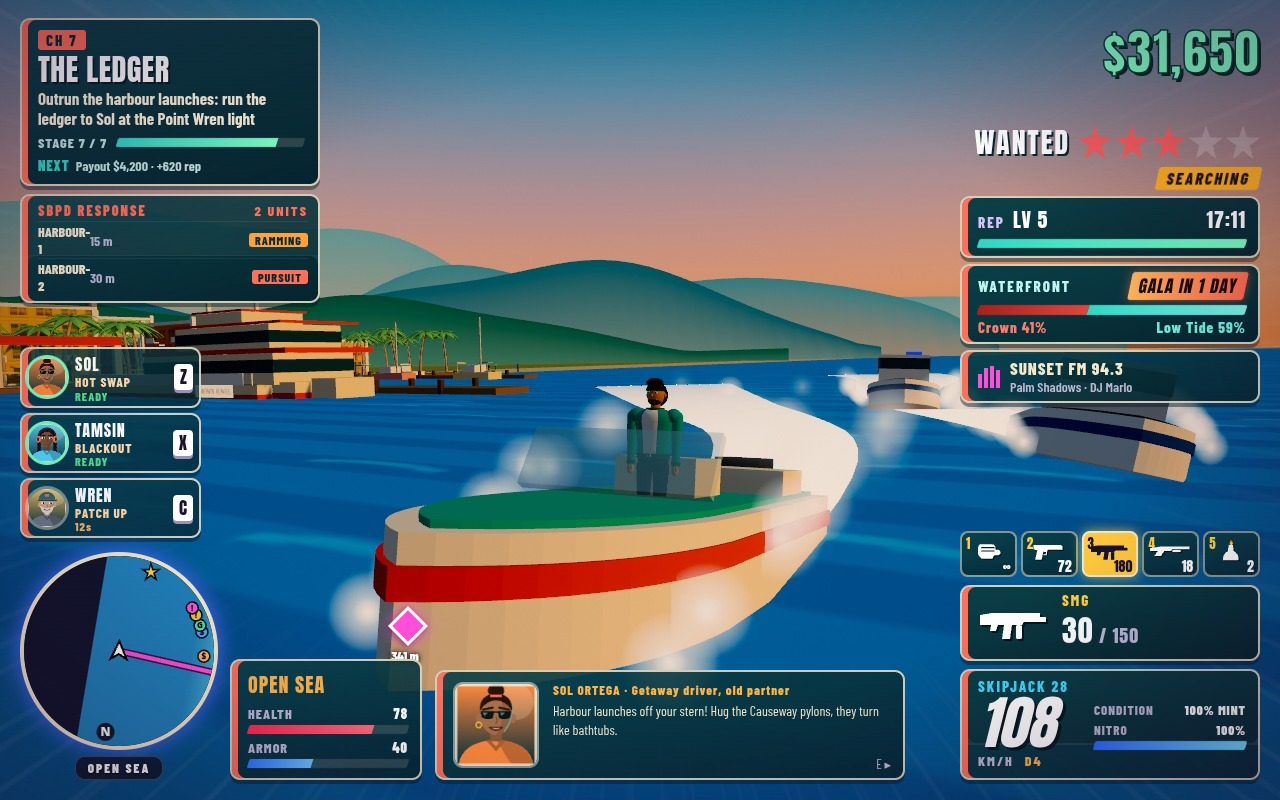
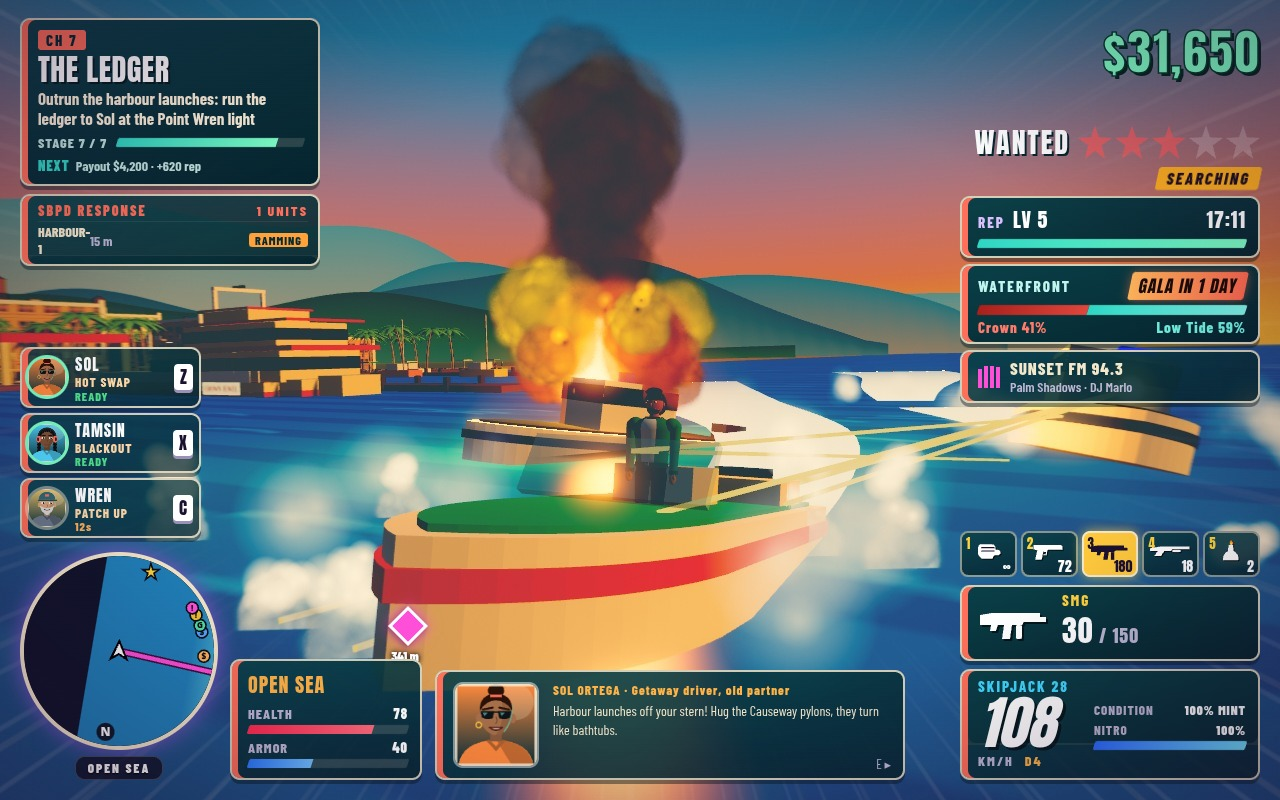
Gunfights on the water: harbour launch bow gunners fire bursts with tracers and bullet splashes, Nico returns fire over the stern with the gun in hand, enough hits sink a launch in a fireball; white water splash effect, warmer explosion smoke; shot 2 restaged with a launch going up behind the bankin

diff --git a/game/src/shots/screenshotScenes.js b/game/src/shots/screenshotScenes.js
@@ -13,7 +13,7 @@ import { setStars } from '../police/wantedSystem.js';
 import { MISSIONS, corner } from '../missions/storyMissions.js';
 import { refreshStartMarker } from '../missions/missionRunner.js';
 import { dlg, say } from '../story/dialogue.js';
-import { muzzleFlash, tracer, sparks, smoke, particle, updateSirens, floatText, layoutFloaters, skidMark, updateEffects, explosion, fire } from '../combat/effects.js';
+import { muzzleFlash, tracer, sparks, smoke, particle, splash, updateSirens, floatText, layoutFloaters, skidMark, updateEffects, explosion, fire } from '../combat/effects.js';
 import { rig } from '../camera/cameraRig.js';
 import { removeCar } from '../vehicles/carPhysics.js';
 import { removeActor } from '../characters/pedestrianSystem.js';
@@ -24,7 +24,8 @@ import { createSpikeStrip } from '../police/spikeStrip.js';
 import { updateLineOfSight } from '../police/lineOfSight.js';
 import { popup } from '../vehicles/driftScoring.js';
 import { stageMoto } from '../vehicles/motoTaxis.js';
-import { createBoat, enterBoat, updateBoats } from '../vehicles/boats.js';
+import { createBoat, enterBoat, updateBoats, sinkBoat } from '../vehicles/boats.js';
+import { boatShot } from '../combat/boatGunfight.js';
 import { mooredSpeedboat } from '../missions/ledgerHeist.js';
 import { DROP, MARINA_GATE, YACHT } from '../world/marina.js';
 
@@ -101,13 +102,19 @@ function boatRun(api) {
   const fwd = () => [Math.sin(b.heading), Math.cos(b.heading), Math.cos(b.heading), -Math.sin(b.heading)], c = S.cam;
   { const l = launches[0], [fx, fz, rx, rz] = fwd(), [bk, sd] = S.lead; l.x = b.x - fx * bk + rx * sd; l.z = b.z - fz * bk + rz * sd; l.heading = b.heading + 0.15; l.vx = Math.sin(l.heading) * 29; l.vz = Math.cos(l.heading) * 29; l.trail = []; }
   b.input.steer = 0; b.input.hand = 0; for (let i = 0; i < S.settle; i++) { G.time += 1 / 60; updateBoats(1 / 60); updateEffects(1 / 60); } p.x = b.x; p.z = b.z;
+  // the gunfight (combat/boatGunfight.js): Nico's rounds have just holed the second launch's fuel tank and it goes up beside
+  // the wake; the lead launch's bow gunner walks a burst across the water at the Skipjack while Nico fires back over the stern
+  { const l = launches[1], [fx, fz, rx, rz] = fwd(), [bk, sd] = S.blast; l.x = b.x - fx * bk + rx * sd; l.z = b.z - fz * bk + rz * sd; l.heading = b.heading - 0.5; l.mesh.position.set(l.x, 0, l.z); l.mesh.rotation.y = l.heading; l.trail = []; sinkBoat(l); }
+  const lead = launches[0], bow = () => [lead.x + Math.sin(lead.heading) * 3.6, 1.9, lead.z + Math.cos(lead.heading) * 3.6];
+  for (let i = 0; i < 12; i++) { G.time += 1 / 60; updateEffects(1 / 60); if (i % 3 === 0) { boatShot(...bow(), b, 3.2, 0); { const a = Math.random() * 6.283, r = 4.5 + Math.random() * 4; splash(b.x + Math.cos(a) * r, b.z + Math.sin(a) * r); } } }
+  for (let k = 0; k < 2; k++) { boatShot(...bow(), b, 2.4, 0); boatShot(b.x, 1.7, b.z, lead, 2, 0); }
   // camera ahead of the bow and off to one side, looking back past the boat toward the yacht at Marina Cala
   { const [fx, fz, rx, rz] = fwd(); G.shotCam = { pos: [b.x + fx * c.f + rx * c.r, c.h, b.z + fz * c.f + rz * c.r], look: [b.x + (YACHT.x - b.x) * c.k + rx * c.lr, c.ly, b.z + (YACHT.z - b.z) * c.k + rz * c.lr], fov: c.fov, roll: c.roll }; }
   G.exposure = 1.1; if (G.post) Object.assign(G.post.params, { bloom: 0.3, threshold: 1.25, vignette: 0.3 });
   finish(api); }
 // staging numbers for the boat run (start x, z, heading, speed; steps of 1/60 s; when the hard turn starts; camera offsets in the boat's frame)
 const SHOT2 = { start: [414, -204, 0.6], v0: 26, steps: 100, turnAt: 70, steer: -0.6, launches: [[409, -226, 0.5], [426, -236, 0.4]],
-  lead: [12, 7], settle: 30, cam: { f: 7.4, r: 3.4, h: 2.7, k: 0.1, lr: 4.2,  ly: 2.0, fov: 56, roll: -0.02 } };
+  lead: [12, 7], blast: [12, -6.5], settle: 30, cam: { f: 7.4, r: 3.4, h: 2.7, k: 0.1, lr: 4.2,  ly: 2.0, fov: 56, roll: -0.02 } };
 // Crew & Chapters screen opened from a ride on The Strand: six chapters done, Dex has turned, Sol's HOT SWAP cooling down.
 function crewScreen(api) {
   const p = G.p, done = ['m1', 'm2', 'm3', 'm4', 'm5', 'm6']; clearTraffic(); G.mode = 'pause'; G.clock = 17.1; G.magicForce = 0.6; G.completed = done; G.territory = null; G.xp = 2200; G.money = 21400; G.crew = { cd: { sol: 18 }, swaps: 1 }; G.wanted.stars = 0;

diff --git a/game/src/combat/effects.js b/game/src/combat/effects.js
@@ -32,7 +32,12 @@ export function particle(o) {
 }
 export const muzzleFlash = (x, y, z) => { particle({ x, y, z, life: 0.07, size: 1.5, color: 0xffd070, add: true, hdr: 2 }); particle({ x, y, z, life: 0.07, size: 0.6, color: 0xffffff, add: true, hdr: 3 }); };
 export function sparks(x, y, z, n = 6) { for (let i = 0; i < n; i++) particle({ x, y, z, vx: (Math.random() - .5) * 9, vy: Math.random() * 6, vz: (Math.random() - .5) * 9, g: 18, life: 0.5, size: 0.25, color: 0xffc060, add: true, hdr: 2 }); }
-export const smoke = (x, y, z, c = 0x333333) => particle({ x, y, z, vx: (Math.random() - .5) * 1.5, vy: 2 + Math.random() * 2, vz: (Math.random() - .5) * 1.5, life: 1.6, size: 1.2, grow: 2.5, color: c, op: 0.7, tex: 'puff', spin: 0.4 });
+// a bullet or debris hitting the sea: a plume of white water thrown up and falling back
+export function splash(x, z, big = 1) {
+  const R = Math.random; for (let i = 0; i < 6 + big * 3; i++) particle({ x: x + (R() - .5) * 0.4 * big, y: 0.2, z: z + (R() - .5) * 0.4 * big, vx: (R() - .5) * 1.2 * big, vy: (5 + R() * 5) * big, vz: (R() - .5) * 1.2 * big, g: 16, life: 0.75, size: (0.3 + R() * 0.25) * big, grow: 0.5 * big, color: 0xffffff, hdr: 2, op: 0.95 });
+  particle({ x, y: 0.15, z, life: 0.5, size: 1.2 * big, grow: 2 * big, color: 0xffffff, hdr: 1.4, op: 0.7, tex: 'puff' });
+}
+export const smoke =(x, y, z, c = 0x333333) => particle({ x, y, z, vx: (Math.random() - .5) * 1.5, vy: 2 + Math.random() * 2, vz: (Math.random() - .5) * 1.5, life: 1.6, size: 1.2, grow: 2.5, color: c, op: 0.7, tex: 'puff', spin: 0.4 });
 export const tyreSmoke = (x, z) => particle({ x, y: 0.4, z, vx: (Math.random() - .5) * 1.2, vy: 0.6 + Math.random() * 0.8, vz: (Math.random() - .5) * 1.2, life: 1.4, size: 1.1, grow: 2.6, color: 0xfff4f0, op: 0.5, tex: 'puff', spin: 0.3 });
 // flames licking off a burning wreck
 export const fire = (x, y, z) => { const R = Math.random; particle({ x: x + (R() - .5) * 1.4, y, z: z + (R() - .5) * 1.4, vy: 2 + R() * 1.5, life: 0.6 + R() * 0.3, size: 1 + R() * 0.6, grow: 0.8, color: 0xffd060, c2: 0x9a1808, hdr: 1.8, op: 0.95, tex: 'puff', spin: 1 }); };
@@ -44,7 +49,7 @@ export function explosion(x, y, z) {
   for (let i = 0; i < 22; i++) { const a = R() * 6.283, sp = 3 + R() * 5; particle({ x: x + Math.cos(a) * 0.8, y: y + 0.5 + R() * 1.6, z: z + Math.sin(a) * 0.8, vx: Math.cos(a) * sp, vy: 2 + R() * 6, vz: Math.sin(a) * sp, life: 0.9 + R() * 0.6, size: 1.8 + R() * 1.6, grow: 3.2, color: [0xffd050, 0xffa030, 0xff7a20][i % 3], c2: 0x5a1208, hdr: 1.9, hdr2: 0.7, op: 0.95, tex: P, spin: (R() - .5) * 2, drag: 2.2 }); }
   for (let i = 0; i < 8; i++) particle({ x: x + (R() - .5) * 2, y: y + 1 + R(), z: z + (R() - .5) * 2, vx: (R() - .5) * 5, vy: 2 + R() * 4, vz: (R() - .5) * 5, life: 0.7, size: 3 + R() * 2, grow: 3, color: 0xff7020, hdr: 1.4, add: true, op: 0.5, tex: P, drag: 2 });
   // billowing smoke column rising above the fireball: warm grey, fire-lit and see-through rather than a flat black mass
-  for (let i = 0; i < 18; i++) particle({ x: x + (R() - .5) * 2, y: y + 2 + i * 0.35 + R(), z: z + (R() - .5) * 2, vx: (R() - .5) * 1.6, vy: 2.5 + R() * 2.5, vz: (R() - .5) * 1.6, life: 3 + R(), size: 2.6 + i * 0.12 + R(), grow: 2.4, color: i % 3 ? 0x6a5450 : 0x8a6c60, c2: 0xb4aaa6, op: 0.5, tex: P, spin: (R() - .5) * 0.6, drag: 0.6 });
+  for (let i = 0; i < 18; i++) particle({ x: x + (R() - .5) * 2, y: y + 2 + i * 0.35 + R(), z: z + (R() - .5) * 2, vx: (R() - .5) * 1.6, vy: 2.5 + R() * 2.5, vz: (R() - .5) * 1.6, life: 3 + R(), size: 2.6 + i * 0.12 + R(), grow: 2.4, color: i % 3 ? 0x8a6656 : 0xa8785c, c2: 0xc8b4a4, op: 0.5, tex: P, spin: (R() - .5) * 0.6, drag: 0.6 });
   // flying burning debris trailing glow, dark chunks, sparks and a ground glow
   for (let i = 0; i < 16; i++) { const vx = (R() - .5) * 22, vy = 6 + R() * 10, vz = (R() - .5) * 22; particle({ x, y: y + 0.8, z, vx, vy, vz, g: 14, life: 1.3, size: 0.55, color: 0xffb040, hdr: 2.2, add: true }); particle({ x, y: y + 0.8, z, vx: vx * 0.9, vy: vy * 0.9, vz: vz * 0.9, g: 14, life: 1.2, size: 0.32, color: 0x1a1210 }); }
   sparks(x, y + 1, z, 26);

diff --git a/game/src/combat/boatGunfight.js b/game/src/combat/boatGunfight.js
@@ -1,0 +1,44 @@
+// Gunfights on the water: SBPD harbour launches put a bow gunner on the player's boat (bursts with tracers, bullet
+// splashes in the sea, light hull damage) and Nico fires back over the stern at the nearest launch while the fire
+// button is held with a gun out. Enough hits sink a launch (boats.js: sinkBoat -> fireball).
+import { G } from '../core/gameState.js';
+import { input } from '../core/input.js';
+import { WEAPONS } from './weapons.js';
+import { muzzleFlash, tracer, sparks, splash } from './effects.js';
+import { damageBoat } from '../vehicles/boats.js';
+import { sfx } from '../audio/soundEngine.js';
+
+export const GUNFIGHT = { range: 55, burst: 0.8, pause: 1.5, rate: 0.12, spread: 3.2, hitR: 1.3, dmg: 1.5, returnRange: 60 };
+const R = Math.random;
+
+// one round from (ax, ay, az) at boat t: a hit sparks off the hull, a miss throws a plume of white water
+export function boatShot(ax, ay, az, t, spread, dmg) {
+  const ox = (R() - 0.5) * spread * 2, oz = (R() - 0.5) * spread * 2, hit = Math.hypot(ox, oz) < GUNFIGHT.hitR;
+  const hx = t.x + ox, hz = t.z + oz, hy = hit ? 1.2 : 0.1; muzzleFlash(ax, ay, az); tracer(ax, ay, az, hx, hy, hz);
+  if (hit) { sparks(hx, hy, hz, 4); damageBoat(t, dmg); } else splash(hx, hz);
+  return hit;
+}
+function launchGunners(dt, me) {
+  for (const b of G.boats) {
+    if (b.dead || b.driver !== 'ai' || !b.type.police) continue;
+    const d = Math.hypot(me.x - b.x, me.z - b.z); b.gunT = (b.gunT ?? R() * GUNFIGHT.pause) - dt;
+    if (d > GUNFIGHT.range) continue;
+    if (b.gunT < -GUNFIGHT.burst) b.gunT = GUNFIGHT.pause; // burst over: reload
+    if (b.gunT > 0) continue;
+    b.shotT = (b.shotT || 0) - dt; if (b.shotT > 0) continue; b.shotT = GUNFIGHT.rate;
+    const sn = Math.sin(b.heading), cs = Math.cos(b.heading);
+    boatShot(b.x + sn * 3.6, 1.9, b.z + cs * 3.6, me, GUNFIGHT.spread * (0.5 + d / GUNFIGHT.range), GUNFIGHT.dmg); if (R() < 0.3) sfx.shot('smg');
+  }
+}
+function returnFire(dt, me) {
+  const p = G.p, w = WEAPONS[p.weapon]; p.boatShotT = (p.boatShotT || 0) - dt;
+  if (!input.left || !w || w.thrown || !w.pellets || !(p.ammo[w.id] > 0) || p.boatShotT > 0) return;
+  let best = null, bd = GUNFIGHT.returnRange; for (const b of G.boats) if (!b.dead && b.driver === 'ai') { const d = Math.hypot(b.x - me.x, b.z - me.z); if (d < bd) { bd = d; best = b; } }
+  if (!best) return; p.ammo[w.id]--; p.boatShotT = w.rate; sfx.shot(w.id);
+  const dx = (best.x - me.x) / bd, dz = (best.z - me.z) / bd;
+  for (let k = 0; k < w.pellets; k++) boatShot(me.x + dx * 1.2, 1.7, me.z + dz * 1.2, best, 1 + bd * w.spread * 3, w.dmg * 1.2);
+}
+export function updateBoatGunfight(dt) {
+  const me = G.p.car; if (!me || !me.isBoat || me.dead || G.mode !== 'play') return;
+  launchGunners(dt, me); returnFire(dt, me);
+}

diff --git a/game/src/core/simulation.js b/game/src/core/simulation.js
@@ -23,6 +23,7 @@ import { updateCrew } from '../crew/crewAbilities.js';
 import { updateMotoTaxis } from '../vehicles/motoTaxis.js';
 import { updateMolotovs } from '../combat/molotov.js';
 import { updateBoats } from '../vehicles/boats.js';
+import { updateBoatGunfight } from '../combat/boatGunfight.js';
 import { updateMarina } from '../world/marina.js';
 
 let pedT = 0;
@@ -30,7 +31,7 @@ export function stepGame(dt) {
   const p = G.p; G.time += dt;
   if (G.mode === 'play') { G.clock = (G.clock + dt / 60) % 24; updatePlayer(dt); updateDialogue(dt); }
   if (G.mode === 'play' || G.mode === 'title' || G.mode === 'dead') {
-    updateTraffic(dt); updateMotoTaxis(dt); for (const c of G.cars.slice()) if (c.kind !== 'traffic' && c.kind !== 'target') stepCar(c, dt); carCollisions(); updateBoats(dt); updateActors(dt); updateMarina();
+    updateTraffic(dt); updateMotoTaxis(dt); for (const c of G.cars.slice()) if (c.kind !== 'traffic' && c.kind !== 'target') stepCar(c, dt); carCollisions(); updateBoats(dt); updateBoatGunfight(dt); updateActors(dt); updateMarina();
     pedT -= dt; if (pedT < 0) { pedT = 1; maintainPeds(); }
   }
   if (G.mode === 'play') {
